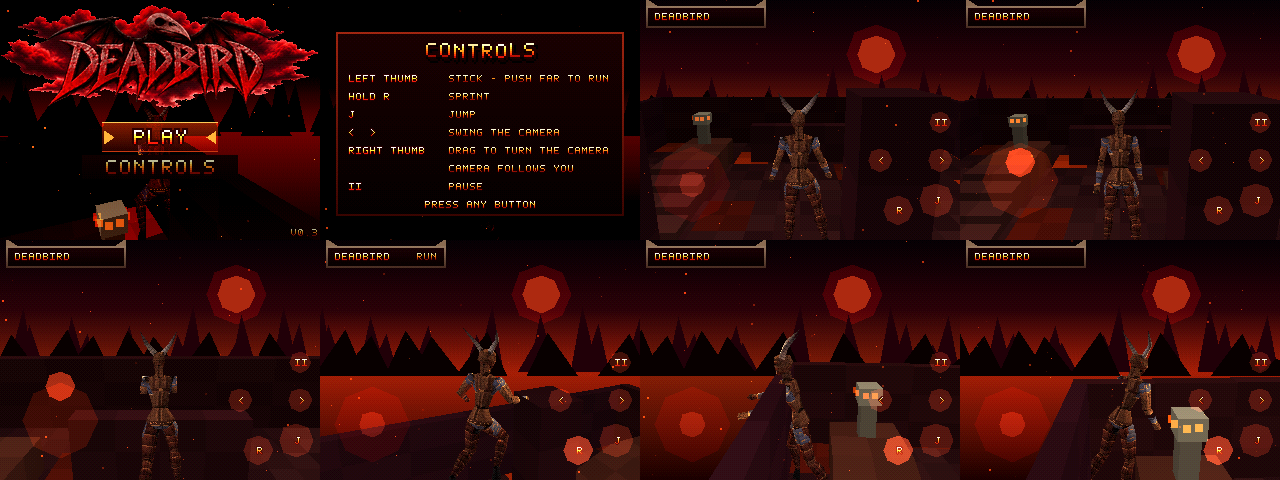
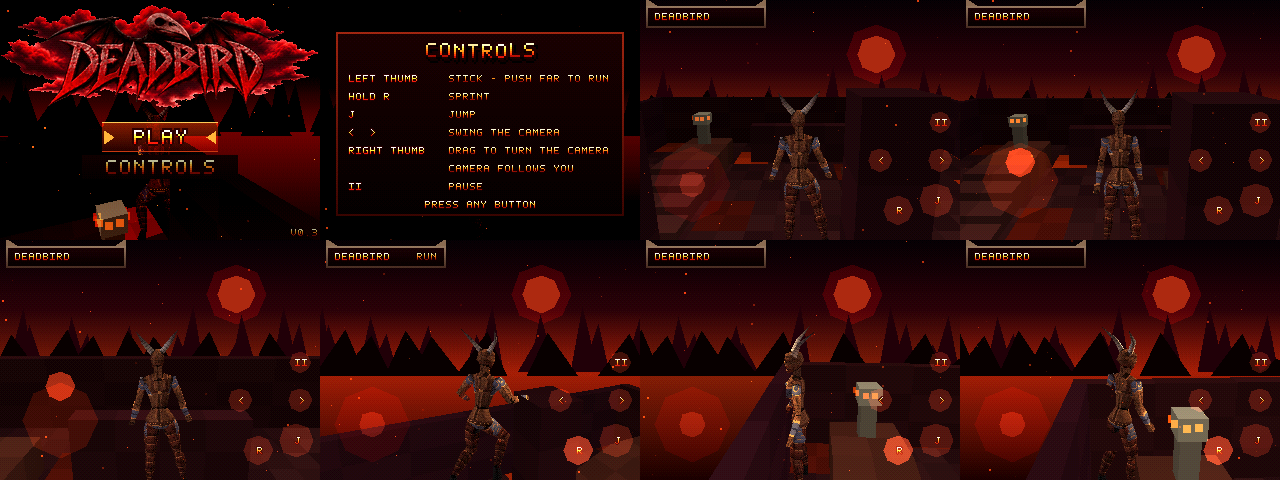
Remove the wall push pose and lean-back: arms stay down when she meets a wall
Claude-Session: https://claude.ai/code/session_012tW2o1Tr2YJ8pCwfx14vK1

diff --git a/game/player.c b/game/player.c
@@ -119,7 +119,7 @@ void player_update(Player *p, u32 pad, int input_yaw, int input_mag)
             s32 into = -((p->vx * cnx + p->vz * cnz) >> 12);
             if (into > 0) { p->vx += cnx * into >> 12; p->vz += cnz * into >> 12; }   /* slide along it */
         }
-        if (wish && ((wx * cnx + wz * cnz) >> 12) < -2900 && p->grounded && p->speed16 < 20 * SUB) p->pushing = 1;
+        p->pushing = 1;                                   /* touching a wall this frame */
     }
     p->x16 = nx; p->z16 = nz;
     p->x = nx >> 4; p->z = nz >> 4;
@@ -188,10 +188,10 @@ void player_update(Player *p, u32 pad, int input_yaw, int input_mag)
         p->phase &= 16383;
         p->idle_t++;
         p->airw += ((p->grounded ? 0 : 4096) - p->airw) / (p->grounded ? 2 : 4);
-        p->pushw += ((p->pushing ? 4096 : 0) - p->pushw) / 6;
         /* lean into acceleration, bank into turns */
         {
-            s32 acc = p->speed16 - p->prev_speed16;
+            /* (a wall stopping you is not braking: no lean back off it) */
+            s32 acc = p->pushing ? 0 : p->speed16 - p->prev_speed16;
             int lean_t = (int)clamp(-acc * 16 * 16 / 12, -16 * 16, 12 * 16);
             int bank_t = (int)clamp((s32)p->turn * p->speed * 16 / 280, -22 * 16, 22 * 16);
             if (!p->grounded) { lean_t = 0; bank_t /= 2; }
@@ -223,8 +223,6 @@ static void build_pose(Player *p)
         fk_sample(&clip_air, (s32)t << 8, &a);
         fk_blend(o, &a, p->airw, o);
     }
-    /* walking into a wall: lean and push */
-    if (p->pushw > 0) { fk_sample(&clip_push, 0, &a); fk_blend(o, &a, p->pushw, o); }
     /* landing dip: quick crouch, slow recovery, scaled by impact */
     if (p->land_t < 20) {
         w = p->land_t < 3 ? p->land_t * 4096 / 3 : (20 - p->land_t) * 4096 / 17;

diff --git a/game/player.h b/game/player.h
@@ -3,7 +3,7 @@
  *   - Quake-style ground physics: friction, acceleration toward the wished velocity,
  *     stop speed, limited air control, gravity + jump
  *   - camera-relative stick: half push walks, full push (or the run button) runs
- *   - wall sliding; pushing straight into a wall makes her lean and push against it
+ *   - walls stop you or slide you along them (no hit reaction)
  *   - step-up smoothing and a landing dip
  *   - the body turns toward where she is actually moving, leans into acceleration and
  *     banks into turns
@@ -31,12 +31,12 @@ typedef struct {
     s32 speed;                 /* horizontal speed, units per frame */
     s32 speed16, prev_speed16;
     int turn;                  /* yaw change this frame */
-    int grounded, air_t, pushing;
+    int grounded, air_t, pushing;  /* pushing = touching a wall this frame */
     int land_t, land_amp;      /* landing dip */
     s32 step_off;              /* visual offset after stepping up/down a ledge */
     int phase;                 /* gait clock, 1/256 frames of the 64-frame cycles */
     int idle_t;
-    int runw, amp, airw, pushw;/* blend weights 0..4096 */
+    int runw, amp, airw;       /* blend weights 0..4096 */
     int lean, bank;            /* degrees * 16 */
     s32 drop;                  /* smoothed grounding drop */
     u32 pad, prev;

diff --git a/platform/headless/stresstest.c b/platform/headless/stresstest.c
@@ -71,9 +71,9 @@ int main(void)
     for (f = 0; f < 90; f++) { player_update(&pl, 0, 512, 2400); player_pose(&pl, &m); }
     {
         int dv = player_input_angle(pl.vx, pl.vz);
-        printf("wall slide test: x %d z %d, facing %d, moving %d (want ~1024), speed %d, push %d, phase %d\n",
-               (int)pl.x, (int)pl.z, pl.yaw, dv, (int)pl.speed, pl.pushw, pl.phase);
-        if (pl.x < -100 || pl.yaw < 850 || pl.yaw > 1200 || pl.speed < 12 || pl.pushw > 1000) { printf("FAIL: doesn't walk along the wall\n"); fails++; }
+        printf("wall slide test: x %d z %d, facing %d, moving %d (want ~1024), speed %d, phase %d\n",
+               (int)pl.x, (int)pl.z, pl.yaw, dv, (int)pl.speed, pl.phase);
+        if (pl.x < -100 || pl.yaw < 850 || pl.yaw > 1200 || pl.speed < 12) { printf("FAIL: doesn't walk along the wall\n"); fails++; }
     }
     printf("%d random frames: max move %d u/f, max turn %d, max drop %d, %d jumps/falls, %d failures\n",
            60 * 60 * 5, max_jump, max_turn, max_drop, air_starts, fails);

diff --git a/tools/make_fkclips.py b/tools/make_fkclips.py
@@ -95,15 +95,7 @@ land = oneshot("land", [
              LSD=50, LSS=30, LEL=50, RSD=50, RSS=30, REL=50)),
 ])
 
-# --- push: leaning into a wall you are walking against
-push = oneshot("push", [
-    (0, pose(PRX=-10, TRX=-20, HRX=14, LHP=20, LKN=24, RHP=-22, RKN=10, RAN=20,
-             LSD=84, LSS=74, LEL=34, RSD=84, RSS=74, REL=34)),
-    (1, pose(PRX=-10, TRX=-20, HRX=14, LHP=20, LKN=24, RHP=-22, RKN=10, RAN=20,
-             LSD=84, LSS=74, LEL=34, RSD=84, RSS=74, REL=34)),
-])
-
-clips = [walk, run, idle, air, land, push]
+clips = [walk, run, idle, air, land]
 out = ["/* generated by tools/make_fkclips.py - edit the script, not this file */",
        '#include "fk.h"', "#include \"fkclips.h\"", ""]
 for c in clips:

diff --git a/game/fkclips.c b/game/fkclips.c
@@ -63,9 +63,3 @@ static const FKKey k_land[] = {
     { 1, { 0, -14, 0, 0, -18, 0, 0, 18, 0, 50, 30, 50, 50, 30, 50, 56, 96, -14, 10, 50, 92, -14, 10 } },
 };
 const FKClip clip_land = { "land", k_land, 2, 1, 0, { 0, 0 }, { 0, 0 } };
-
-static const FKKey k_push[] = {
-    { 0, { 0, -10, 0, 0, -20, 0, 0, 14, 0, 84, 74, 34, 84, 74, 34, 20, 24, 0, 5, -22, 10, 20, 5 } },
-    { 1, { 0, -10, 0, 0, -20, 0, 0, 14, 0, 84, 74, 34, 84, 74, 34, 20, 24, 0, 5, -22, 10, 20, 5 } },
-};
-const FKClip clip_push = { "push", k_push, 2, 1, 0, { 0, 0 }, { 0, 0 } };

diff --git a/game/fkclips.h b/game/fkclips.h
@@ -6,5 +6,4 @@ extern const FKClip clip_run;
 extern const FKClip clip_idle;
 extern const FKClip clip_air;
 extern const FKClip clip_land;
-extern const FKClip clip_push;
 #endif

diff --git a/README.md b/README.md
@@ -13,7 +13,7 @@ level. The engine is written so it can run on a real PlayStation later. For now 
   and jump. Floating analog stick on the left of the touch screen: half push walks, push past 70%
   (or hold R) runs. Directions are relative to where the camera looks now, so holding the stick
   to one side keeps her curving round as the camera follows. Walls slide you along them (she
-  turns and walks along the wall); push straight into one and she stops and leans on it. Ledges you step up are
+  turns and walks along the wall); push straight into one and she just stops (no hit reaction). Ledges you step up are
   smoothed, and landings dip by how hard you hit.
 - **Facing, lean and bank** (from Slayer's `Hero.java`): the body turns toward where she is
   actually moving, leans into acceleration (back when braking) and banks into turns.
@@ -21,7 +21,7 @@ level. The engine is written so it can run on a real PlayStation later. For now 
   `tools/make_fkclips.py`): every clip is joint angles. Idle, walk and run cycles share one clock
   that **advances with distance travelled** (cycle distance is measured from the clip's own foot
   travel), so stride keeps up with ground speed; walk and run blend by speed. Air (tuck on the
-  way up, reach on the way down), landing crouch and wall push are blended on top.
+  way up, reach on the way down), and the landing crouch are blended on top.
   The only runtime adjustment is lowering the whole body so the lowest foot touches the floor.
 - **Test level**: floor with lava seams, boundary walls, a low platform, stairs to a high
   platform, a ramp, pillars and a wall to run into, and skull totems.
